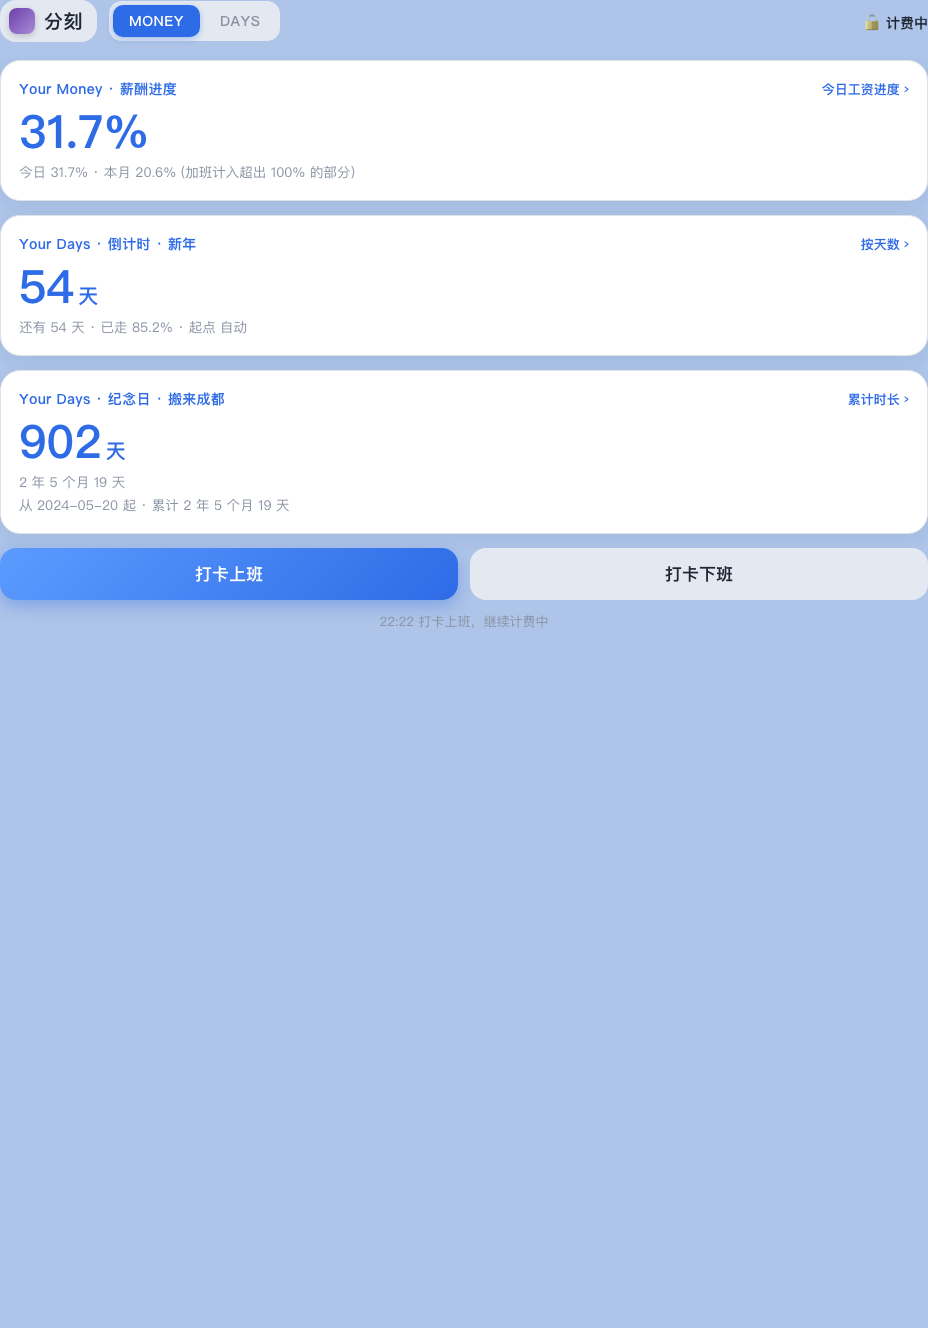
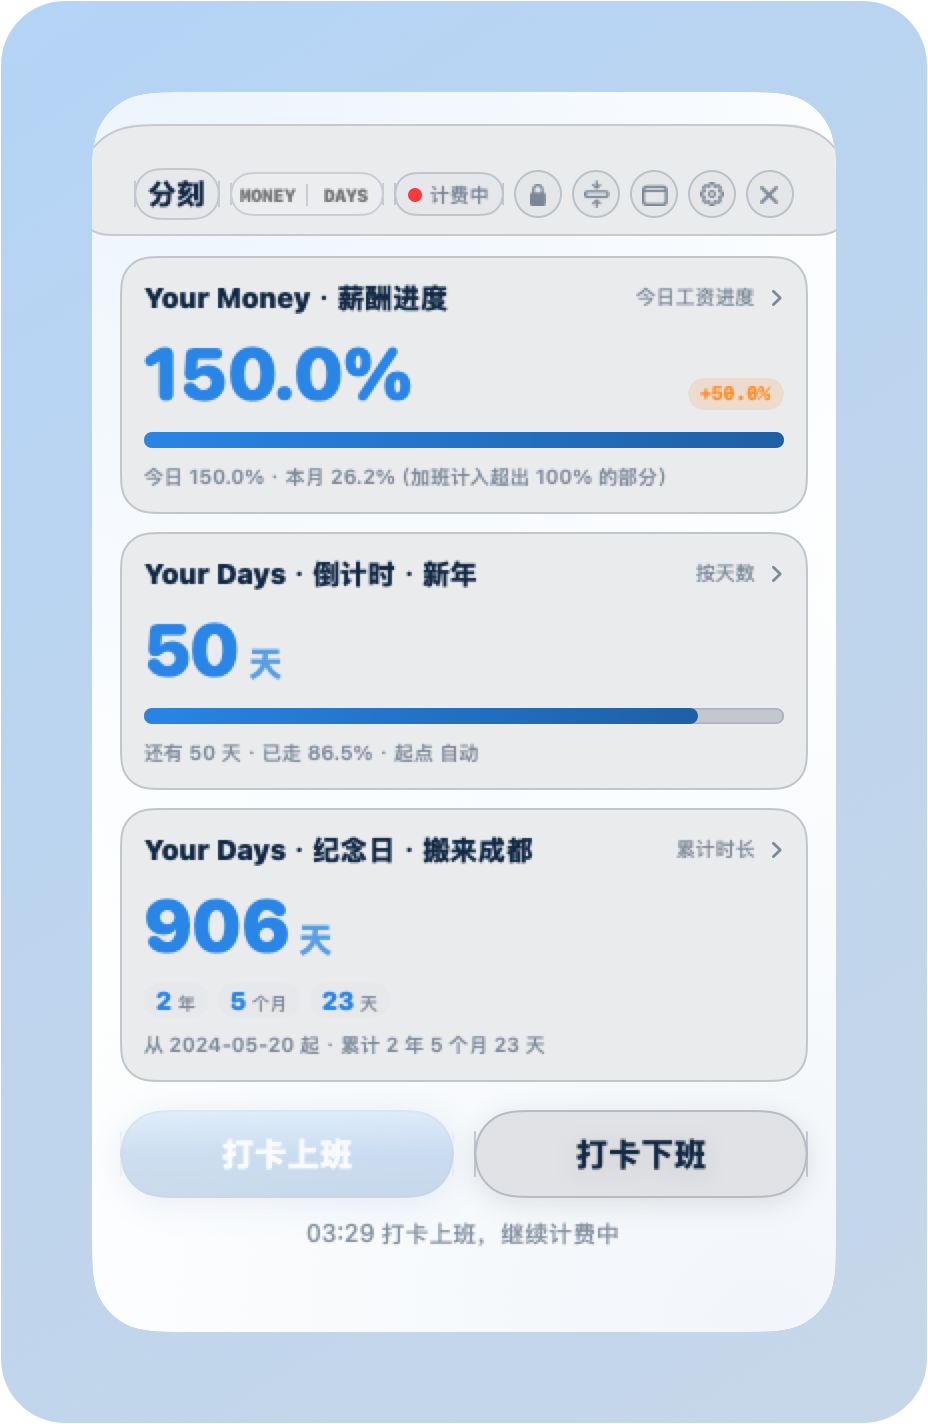
界面预览截图全部换成真实应用渲染：--export-shots 隔离存档（演示月薪 ¥3500）导出 6 页，天蓝主题，替换原 HTML 拼图；og-cover 同步换新

diff --git a/index.html b/index.html
@@ -218,7 +218,7 @@
       </div>
       <div class="shot">
         <img src="screenshots/recordDay.png" alt="分刻纪念日页：累计时长与芯片" loading="lazy">
-        <div class="cap">Your Days · 纪念日（累计 2 年 5 个月 19 天）</div>
+        <div class="cap">Your Days · 纪念日（累计时长 / 累计天数）</div>
       </div>
       <div class="shot">
         <img src="screenshots/privacy.png" alt="分刻隐私模式：金额变成百分比进度" loading="lazy">
